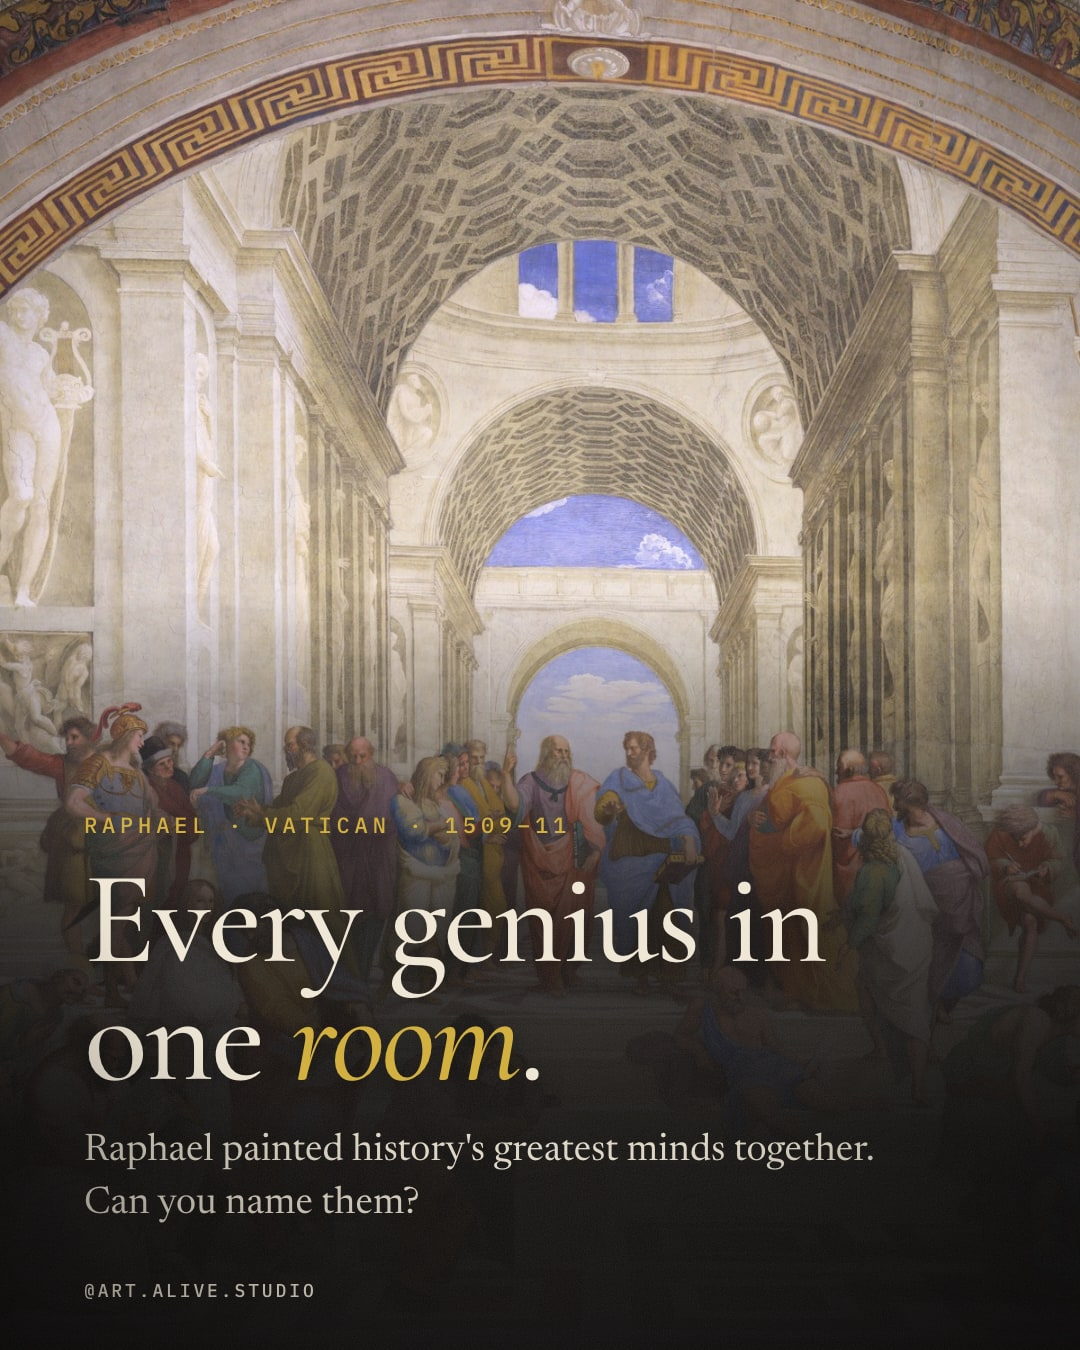
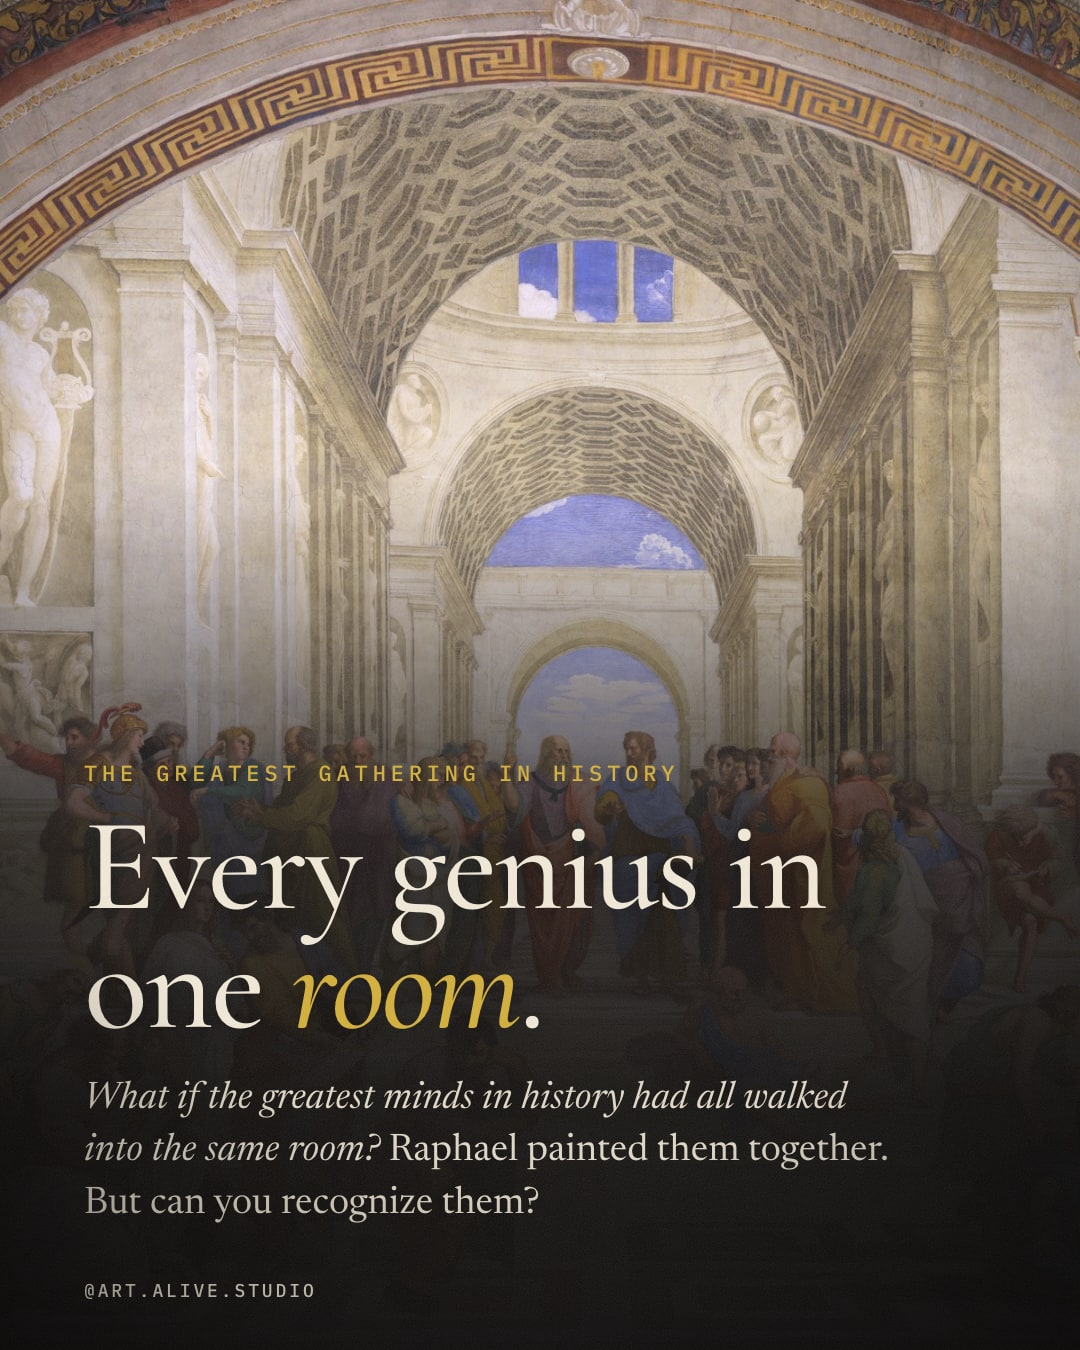
School of Athens cover: keep 'Every genius in one room', add the owner's exact kicker and lines

Changed region(s): [[0.0, 0.3733, 1.0, 0.9022]]

diff --git a/channels/art-history/carousels/06-raphael-school-of-athens/slides.html b/channels/art-history/carousels/06-raphael-school-of-athens/slides.html
@@ -2,7 +2,7 @@
 <style>
   /* "Who's who" style: one numbered figure per slide, full-bleed crop, then a map that numbers them all. */
   .s-cover .bleed { object-position: 50% 40%; }
-  .s-cover.shade-bottom::after { height: 760px; background: linear-gradient(transparent, rgba(13,11,9,.78) 42%, rgba(13,11,9,.96) 72%); }
+  .s-cover.shade-bottom::after { height: 880px; background: linear-gradient(transparent, rgba(13,11,9,.78) 42%, rgba(13,11,9,.96) 72%); }
   .s-cover .kicker, .s-cover .h-xl { text-shadow: 0 2px 24px rgba(0,0,0,.6); }
 
   /* the who card */
@@ -28,9 +28,9 @@
 <section class="slide s-cover shade-bottom">
   <img class="bleed" src="img/who_cover.jpg">
   <div class="block bottom">
-    <div class="kicker">Raphael · Vatican · 1509–11</div>
+    <div class="kicker">The greatest gathering in history</div>
     <h1 class="h-xl">Every genius in one <em>room</em>.</h1>
-    <p class="lede">Raphael painted history's greatest minds together. Can you name them?</p>
+    <p class="lede"><i>What if the greatest minds in history had all walked into the same room?</i> Raphael painted them together. But can you recognize them?</p>
   </div>
 </section>
 
